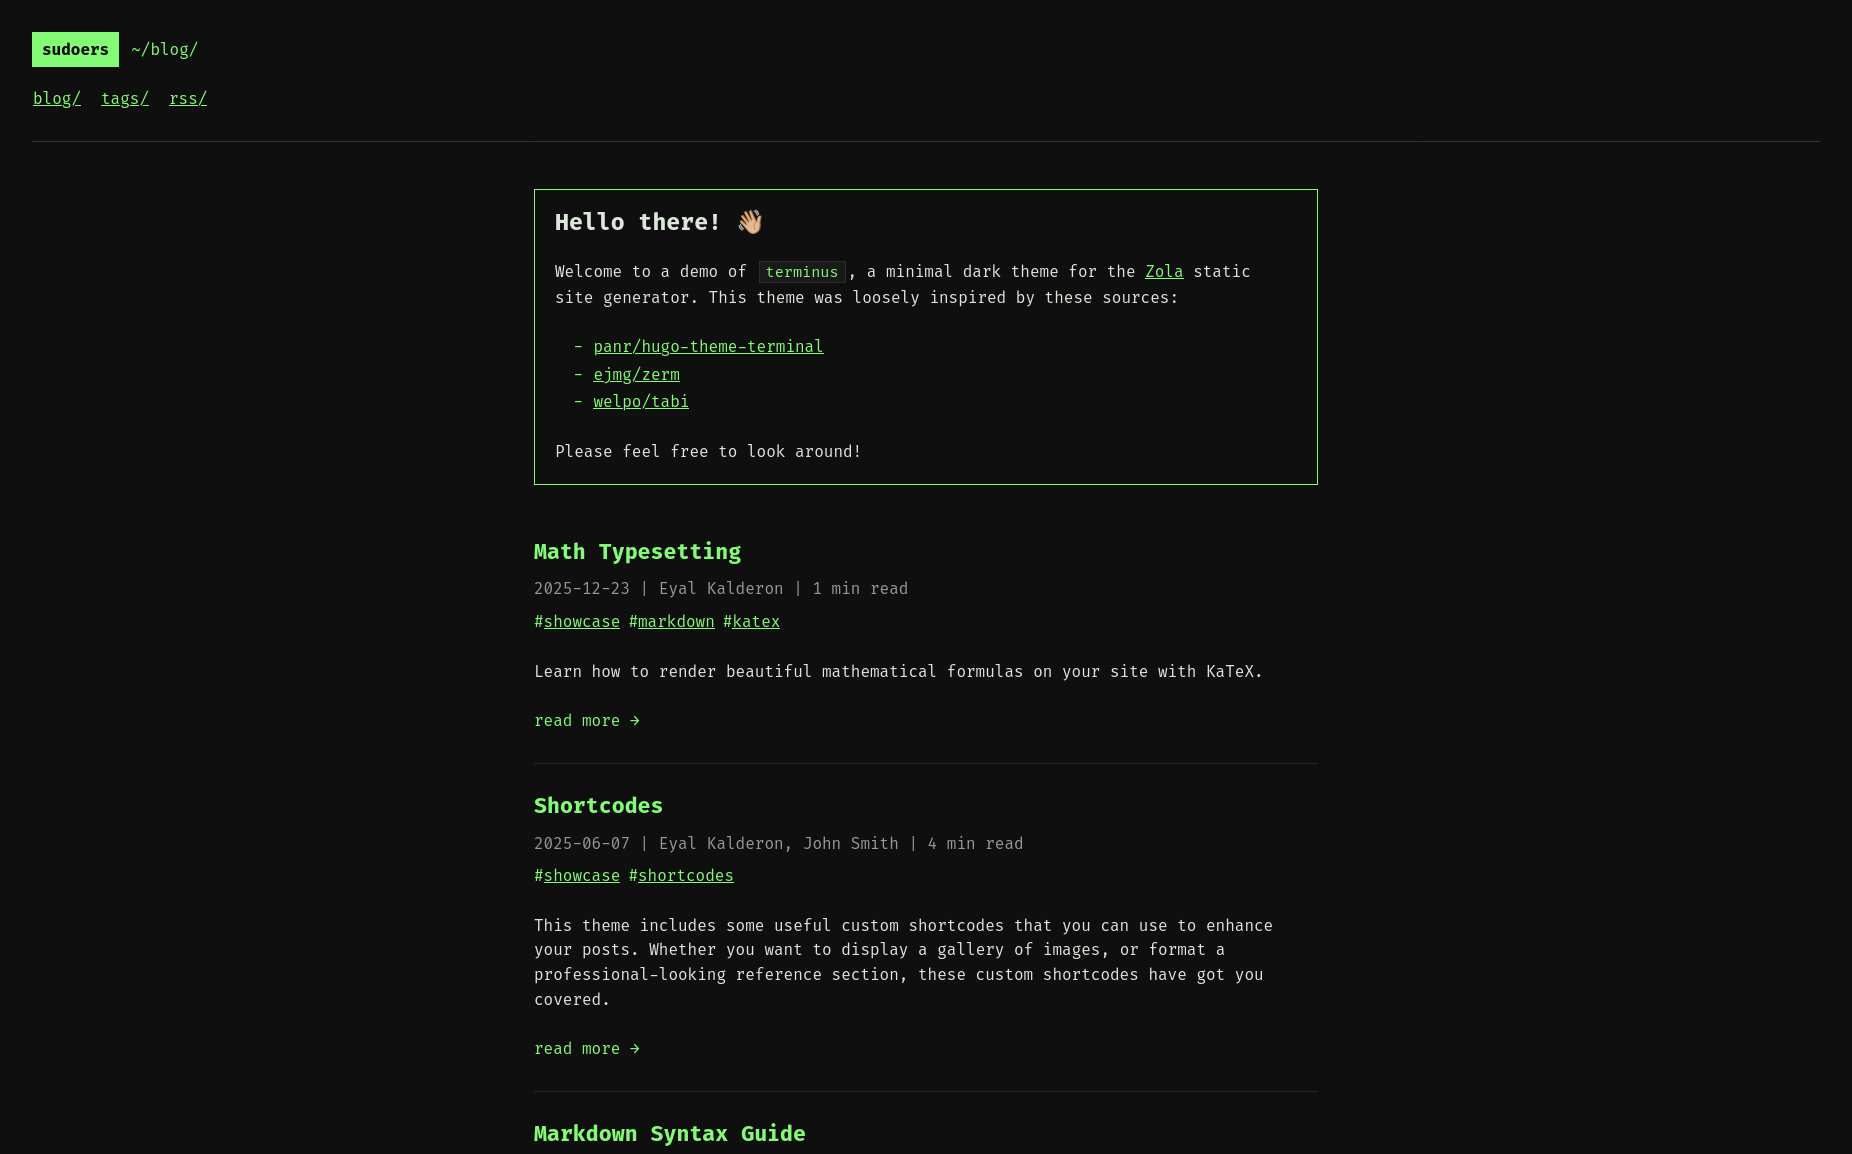
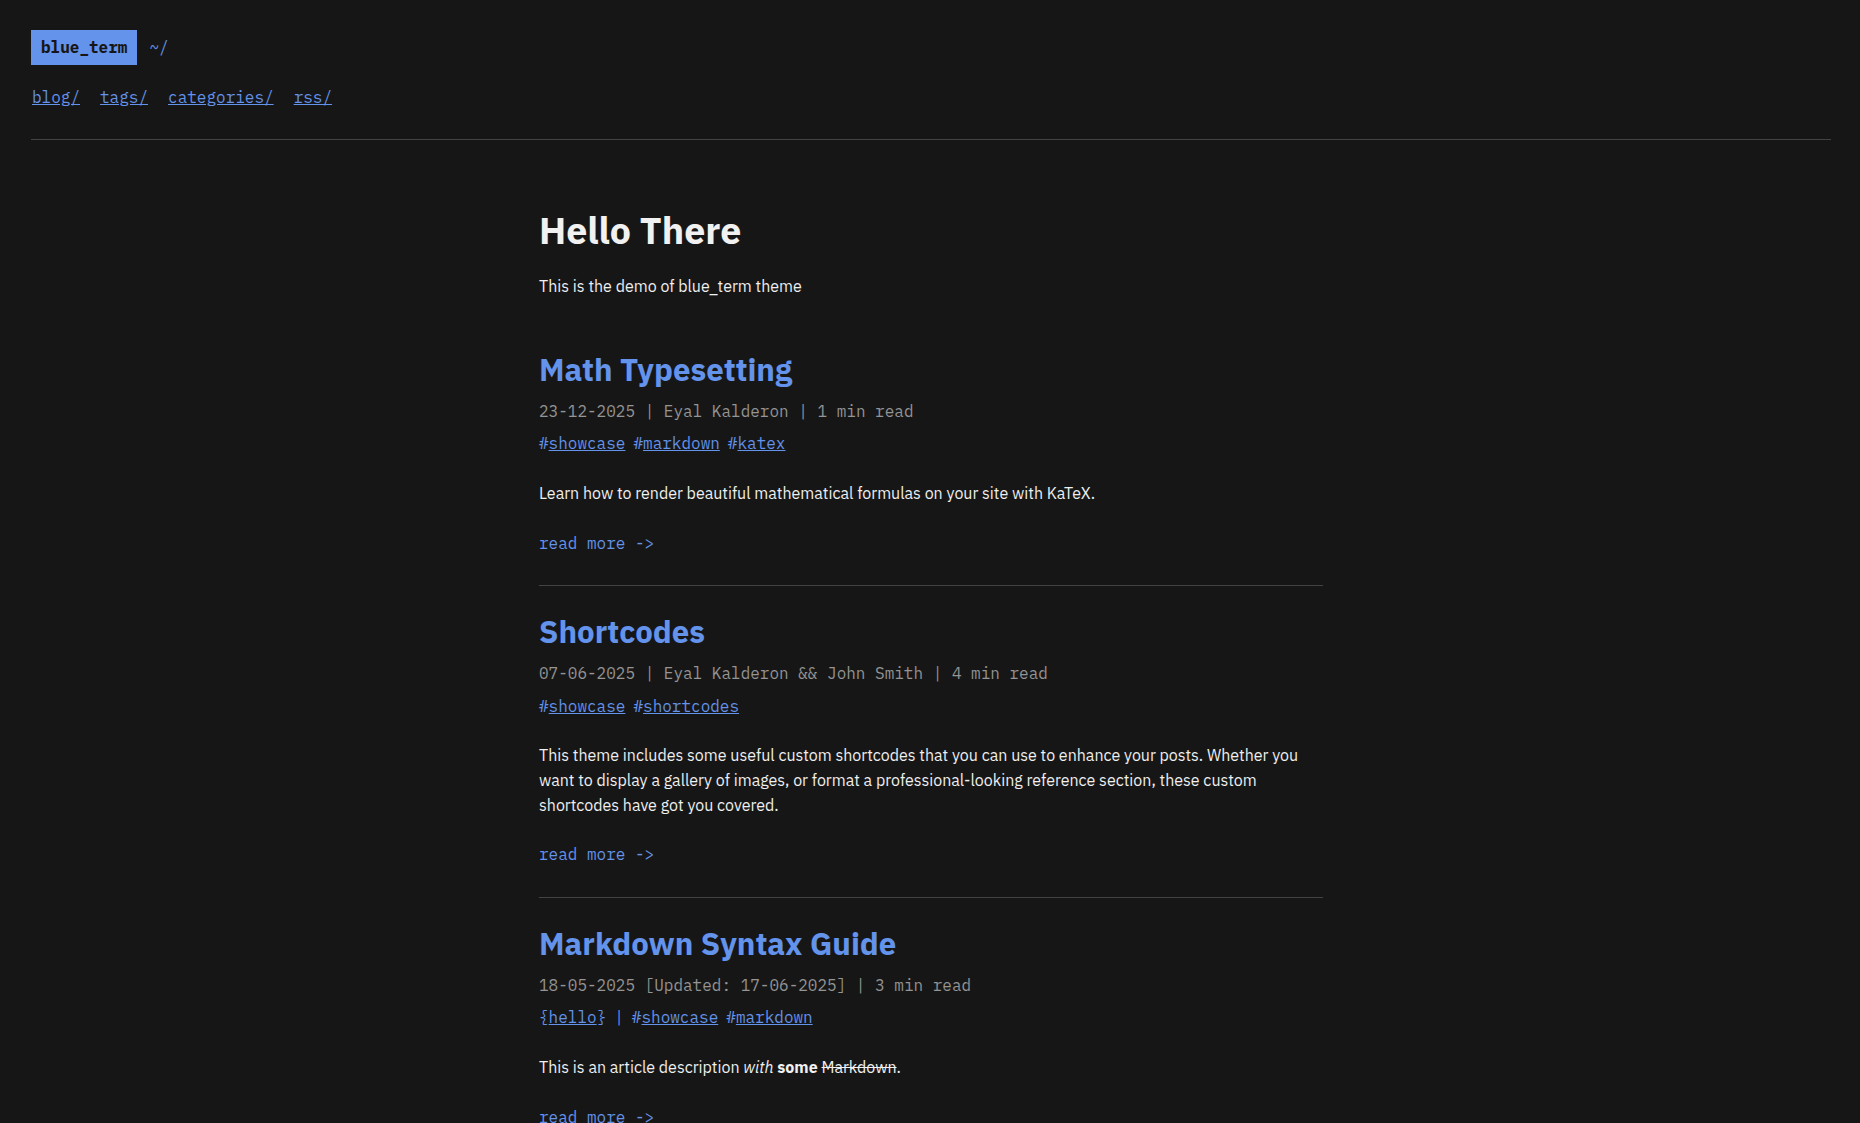
updated screenshot

diff --git a/content/_index.md b/content/_index.md
@@ -1,6 +1,6 @@
 +++
 title = "Blog"
-description = "Blog section of the Terminus demo website"
+description = "Blog section of the blue_term demo website"
 sort_by = "date"
 paginate_by = 5
 insert_anchor_links = "right"
@@ -8,3 +8,6 @@ insert_anchor_links = "right"
 [extra]
 copy_button = true
 +++
+
+# Hello There
+This is the demo of blue_term theme
